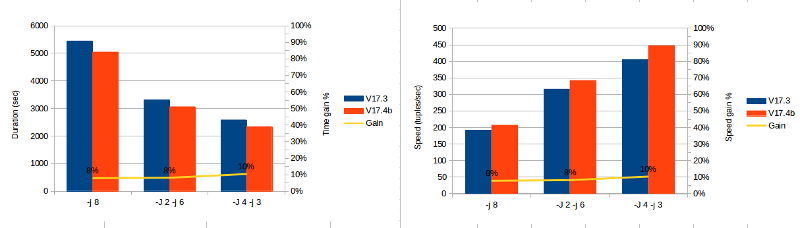
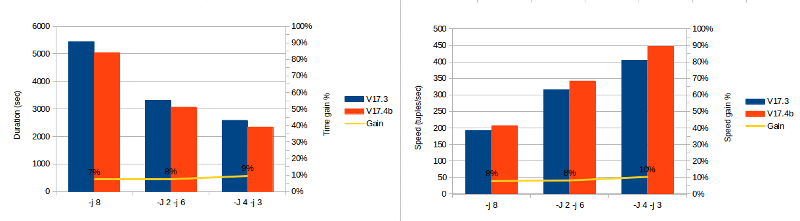
Fix percentage and images

diff --git a/_posts/2016-04-06-Ora2Pg_data_export_improvement.md b/_posts/2016-04-06-Ora2Pg_data_export_improvement.md
@@ -102,13 +102,13 @@ Here are the duration results in seconds:
 
 |Cores     | V17.3 | V17.4b | Gain |
 |: ------- | ----: | -----: | ---: |
-|-j 8      |  5445 |  5045  |   8% |
+|-j 8      |  5445 |  5045  |   7% |
 |-J 2 -j 6 |  3314 |  3064  |   8% |
 |-J 4 -j 3 |  2585 |  2341  |  10% |
 
 <img src="http://blog.dalibo.com/assets/media/Ora2Pg_data_export_improvement_table_test1.png" title="Results table_test1"/>
 
-With this kind of table and data types, the speed gain is from 8 to 10 percent.
+With this kind of table and data types, the speed gain is from 7 to 10 percent.
 At a maximum speed (447 tuples/sec) it took around 0h45 without the patch and
 0h40 with Svetlana's patch. As expected when you are exporting a table with LOB
 the gain is not really important but significant enough to be interesting. In
@@ -192,13 +192,13 @@ SQL> DESC TABLE_TEST3
 
 |Cores     | V17.3 | V17.4b | Gain |
 |: ------- | ----: | -----: | ---: |
-|-j 8      |   304 |   207  |  47% |
-|-J 2 -j 6 |   276 |   165  |  67% |
-|-J 4 -j 3 |   276 |   152  |  82% |
+|-j 8      |   304 |   207  |  32% |
+|-J 2 -j 6 |   276 |   165  |  40% |
+|-J 4 -j 3 |   276 |   152  |  45% |
 
 <img src="http://blog.dalibo.com/assets/media/Ora2Pg_data_export_improvement_table_test3.png" title="Results table_test3"/>
 
-The speed gain is from 47% up to 82% at full speed. The more parallelizing we
+The speed gain is from 32% up to 45% at full speed. The more parallelizing we
 set, the more speed gain we have. Obviously I was not expecting such a gain,
 this is really a good news.
 
@@ -211,8 +211,8 @@ and -j 3 parallelization.
 The result is 2h38 (avg: 6059 tuples/sec) with the v17.3 release and only 0h57
 (avg: 8183 tuples/sec) with Svetlana's patch.
 
-This is 35% of time saved for a total of 57,500,000 tuples! This is something
-really good to reduce the migration downtime.
+This is 26% of time saved for a total of 57,500,000 tuples! This is something
+really helpful to reduce the migration downtime.
 
 
 ## Conclusion
